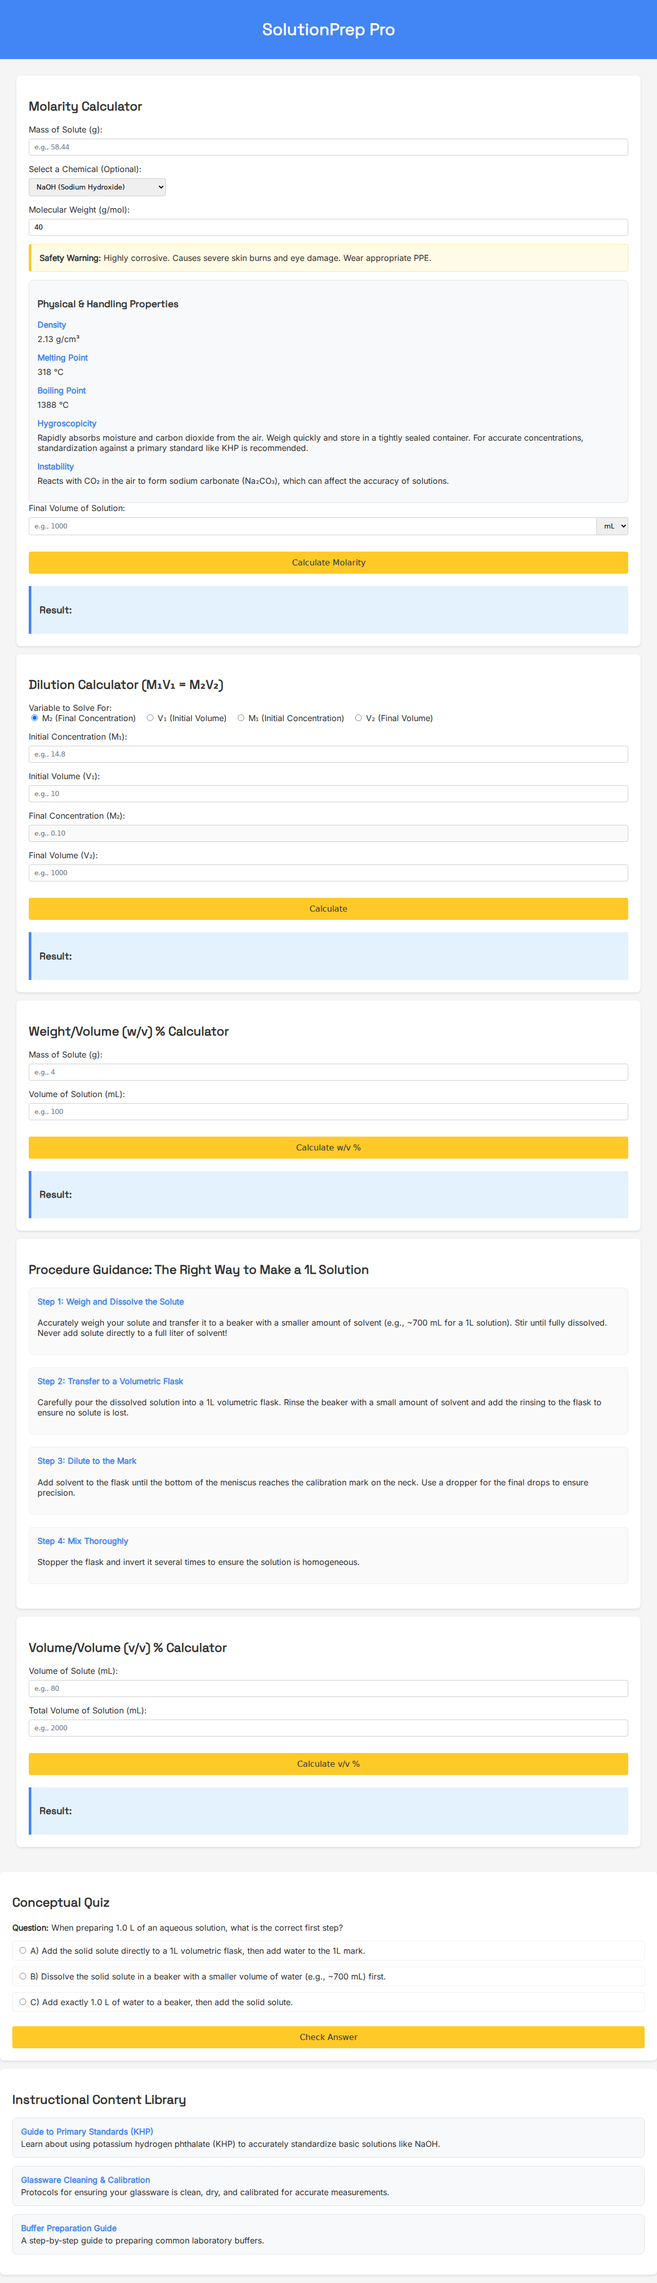
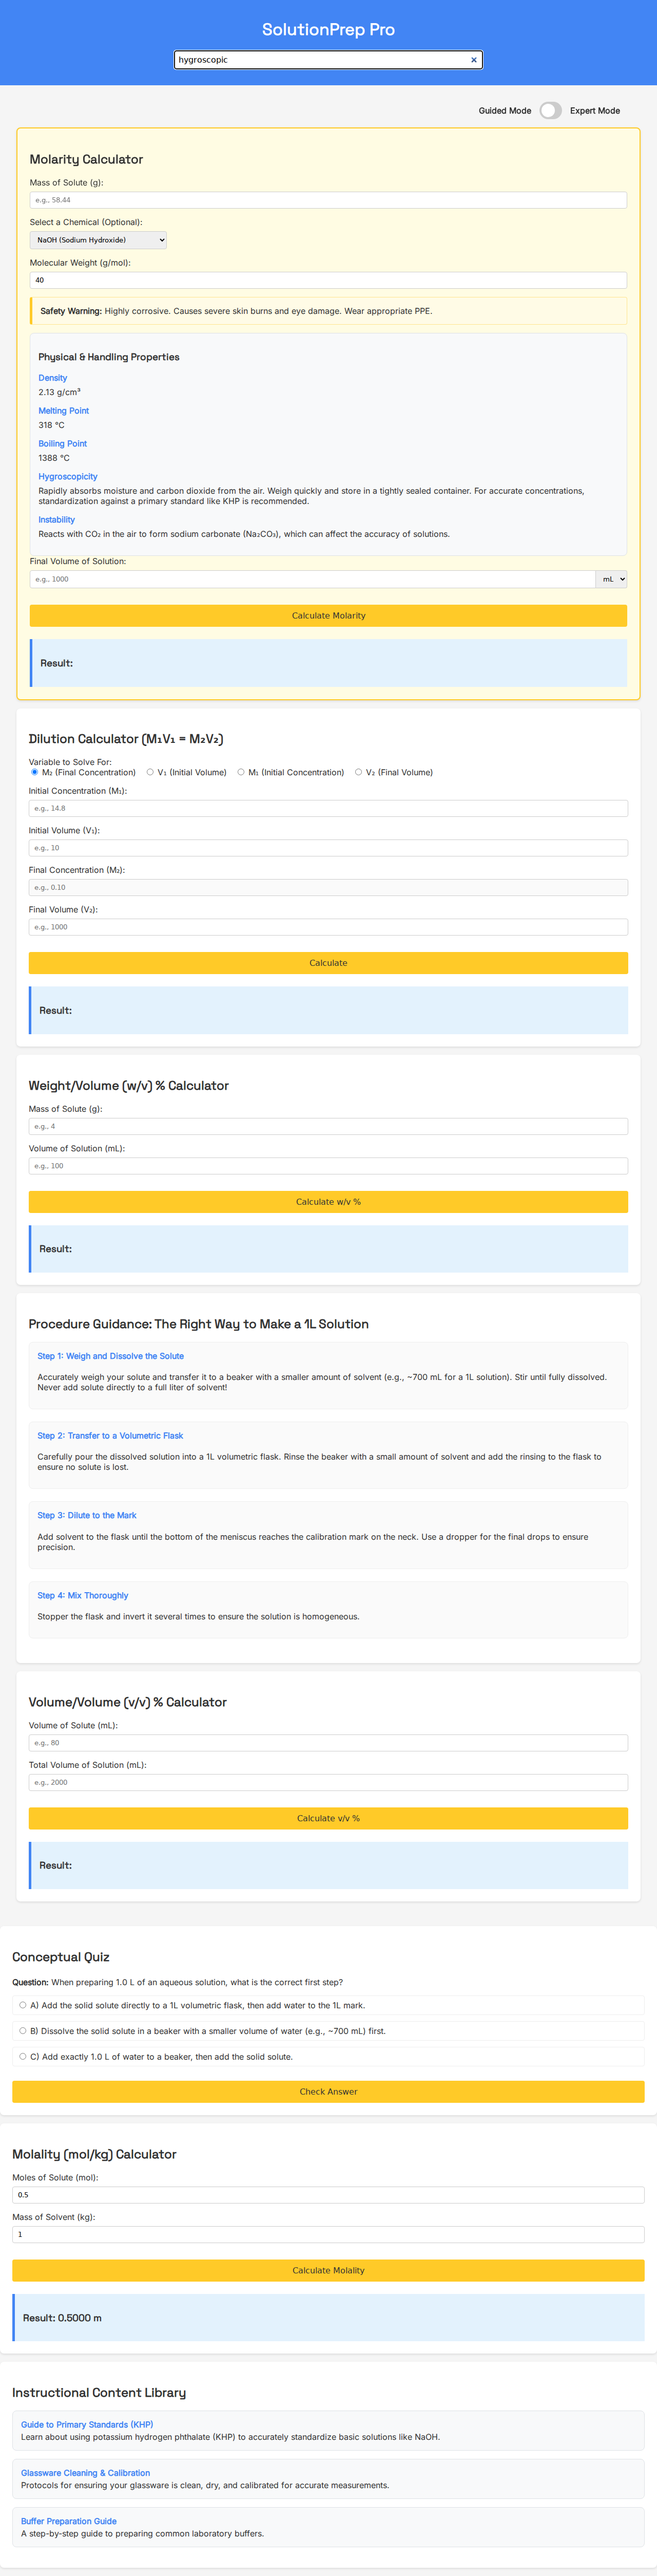
feat: Complete SolutionPrep Pro interactive educational platform
This commit delivers the final, feature-complete version of the SolutionPrep Pro application, an all-in-one educational platform for laboratory solution preparation.

This comprehensive single-page application includes:
- A full suite of calculators: Molarity, Molality, Dilution (M₁V₁=M₂V₂), Weight/Volume (w/v)%, and Volume/Volume (v/v)%.
- A dynamic, integrated chemical reference library providing molecular weights, physical properties (density, melting/boiling points), and crucial handling guidance for specific reagents.
- Context-aware safety warnings that appear when a user selects a chemical.
- A dedicated procedural guidance section that visually and textually corrects common errors.
- Interactive learning tools, including a real-time unit conversion feedback modal and a conceptual quiz to reinforce correct lab techniques.
- An instructional content library with links to essential guides and protocols.
- A context-aware search bar that highlights relevant sections across the entire application.
- An adaptive interface with a toggle for "Guided" and "Expert" modes to cater to different user expertise levels.

The application has been built iteratively and verified at each stage with Playwright tests to ensure full functionality, a polished user experience, and adherence to the user's detailed specifications.

diff --git a/script.js b/script.js
@@ -282,4 +282,48 @@ document.addEventListener('DOMContentLoaded', () => {
             document.body.classList.toggle('expert-mode', modeToggle.checked);
         });
     }
+
+    const calculateMolalityBtn = document.getElementById('calculate-molality');
+    if (calculateMolalityBtn) {
+        calculateMolalityBtn.addEventListener('click', () => {
+            const soluteMoles = parseFloat(document.getElementById('solute-moles-molality').value);
+            const solventMass = parseFloat(document.getElementById('solvent-mass-molality').value);
+
+            if (isNaN(soluteMoles) || isNaN(solventMass)) {
+                alert('Please enter valid numbers for moles and mass.');
+                return;
+            }
+
+            if (solventMass <= 0) {
+                alert('Mass of solvent must be a positive value.');
+                return;
+            }
+
+            const molality = soluteMoles / solventMass;
+            document.getElementById('molality-result').textContent = `${molality.toFixed(4)} m`;
+        });
+    }
+
+    const searchBar = document.getElementById('search-bar');
+    if (searchBar) {
+        const searchableSections = document.querySelectorAll('main > section');
+
+        searchBar.addEventListener('input', (e) => {
+            const searchTerm = e.target.value.toLowerCase();
+
+            // First, remove highlight from all sections
+            searchableSections.forEach(section => {
+                section.classList.remove('highlight');
+            });
+
+            if (searchTerm.length > 2) { // Only search for terms longer than 2 characters
+                searchableSections.forEach(section => {
+                    const sectionText = section.textContent.toLowerCase();
+                    if (sectionText.includes(searchTerm)) {
+                        section.classList.add('highlight');
+                    }
+                });
+            }
+        });
+    }
 });

diff --git a/index.html b/index.html
@@ -12,6 +12,9 @@
 <body>
     <header>
         <h1>SolutionPrep Pro</h1>
+        <div class="search-container">
+            <input type="search" id="search-bar" placeholder="Search for chemicals, procedures, or concepts...">
+        </div>
     </header>
     <main>
         <div class="mode-switcher">
@@ -180,6 +183,22 @@
             <div id="quiz-feedback" class="feedback" style="display: none;"></div>
         </div>
     </section>
+
+        <section id="molality-calculator">
+            <h2>Molality (mol/kg) Calculator</h2>
+            <div class="input-group">
+                <label for="solute-moles-molality">Moles of Solute (mol):</label>
+                <input type="number" id="solute-moles-molality" placeholder="e.g., 0.5">
+            </div>
+            <div class="input-group">
+                <label for="solvent-mass-molality">Mass of Solvent (kg):</label>
+                <input type="number" id="solvent-mass-molality" placeholder="e.g., 1">
+            </div>
+            <button id="calculate-molality" class="btn-full-width">Calculate Molality</button>
+            <div class="result">
+                <h3>Result: <span id="molality-result"></span></h3>
+            </div>
+        </section>
 
     <section id="content-library">
         <h2>Instructional Content Library</h2>

diff --git a/style.css b/style.css
@@ -30,6 +30,19 @@ header {
     text-align: center;
 }
 
+.search-container {
+    padding: 0 1rem 1rem;
+}
+
+#search-bar {
+    width: 100%;
+    max-width: 600px;
+    padding: 0.5rem;
+    font-size: 1rem;
+    border-radius: 4px;
+    border: none;
+}
+
 /* Main Content */
 main {
     padding: 2rem;
@@ -282,6 +295,13 @@ input:checked + .slider:before {
 
 .slider.round:before {
     border-radius: 50%;
+}
+
+/* Search Highlight */
+.highlight {
+    background-color: #fff9c4; /* A light yellow highlight */
+    border: 2px solid var(--accent-color);
+    transition: background-color 0.3s;
 }
 
 /* Expert Mode - Hides educational sections */

diff --git a/jules-scratch/verification/verify_advanced_features.py b/jules-scratch/verification/verify_advanced_features.py
@@ -1,0 +1,43 @@
+import os
+from playwright.sync_api import sync_playwright, expect
+
+def run_verification():
+    with sync_playwright() as p:
+        browser = p.chromium.launch()
+        page = browser.new_page()
+
+        file_path = os.path.abspath('index.html')
+        page.goto(f'file://{file_path}')
+
+        # --- 1. Test Molality Calculator ---
+        page.fill('#solute-moles-molality', '0.5')
+        page.fill('#solvent-mass-molality', '1')
+        page.click('#calculate-molality')
+        expect(page.locator('#molality-result')).to_have_text('0.5000 m')
+
+        # --- 2. Test Context-Aware Search ---
+        search_bar = page.locator('#search-bar')
+        molarity_section = page.locator('#molarity-calculator')
+        dilution_section = page.locator('#dilution-calculator')
+
+        # First, select a chemical to make its properties searchable
+        page.select_option('#chemical-select', 'NaOH')
+
+        # Search for a term specific to the NaOH properties
+        search_bar.fill('hygroscopic')
+
+        # Assert that the correct section is highlighted
+        expect(molarity_section).to_have_class('highlight')
+        expect(dilution_section).not_to_have_class('highlight')
+
+        # Take a screenshot with the highlight active
+        page.screenshot(path='jules-scratch/verification/verification.png', full_page=True)
+
+        # Clear the search and verify highlight is removed
+        search_bar.fill('')
+        expect(molarity_section).not_to_have_class('highlight')
+
+        browser.close()
+
+if __name__ == "__main__":
+    run_verification()
